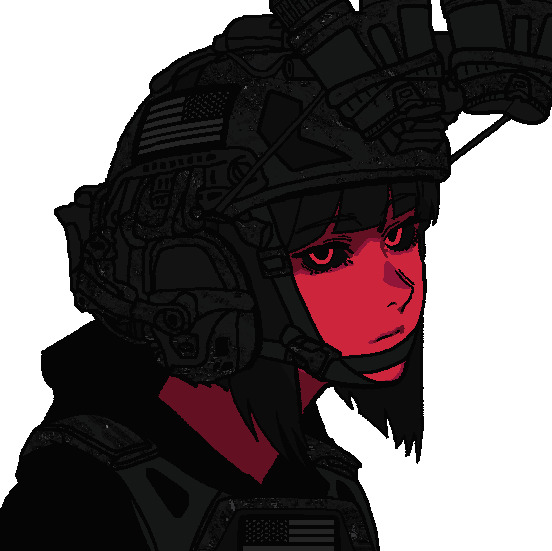
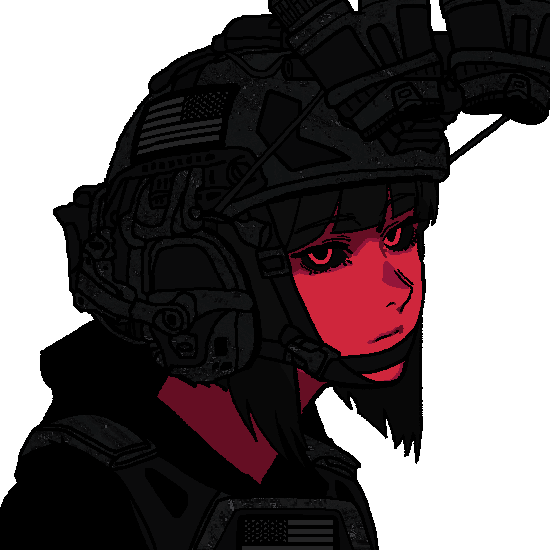
grey -> black

diff --git a/css/app.min.css b/css/app.min.css
@@ -1,1 +1,1 @@
-body,html{margin:0;padding:0;overflow:hidden;-webkit-touch-callout:none;-webkit-user-select:none;-khtml-user-select:none;-moz-user-select:none;-ms-user-select:none;user-select:none}h1,h2,h3,h4,h5{margin:0;padding:0}body{display:flex;flex-direction:column;align-items:center;justify-content:center;width:100%;height:100%;background:#0e0e10}main{display:flex;flex-direction:column;align-items:center;justify-content:center}.header{display:flex;flex-direction:column;align-items:center;justify-content:center;width:100%;margin-bottom:2em}.avatar{width:20em;height:auto;border-radius:50%;padding:1.6em;background-color:#050505}.brand-icon{margin-top:-1em;padding:1em;border-radius:15px;background:#050505}.logo{width:10em;height:auto;fill:#fff;margin:auto}.logo-condensed{display:none;width:5em;height:auto;fill:#fff;margin:auto}.links{display:flex;flex-direction:row;align-items:center;justify-content:center;width:100%}.link{position:relative;display:flex;flex-direction:column;align-items:center;justify-content:center;text-decoration:none;margin:0 1em}.icon{width:1.6em;height:1.6em;fill:#050505;margin:auto;-webkit-transition:fill .3s cubic-bezier(.25,.1,.25,1);transition:fill .3s cubic-bezier(.25,.1,.25,1)}.link:active .icon,.link:hover .icon{fill:#fff}.link{fill:#888;background:#050505;padding:.6em;border-radius:10px}.twitch .icon{fill:#8540e5}.youtube .icon{fill:#cc2936}.discord .icon{fill:#5562f2}.twitter .icon{fill:#178fe5}.instagram .icon{fill:#d62976}@media only screen and (orientation:portrait){main{transform:scale(80%)}}
+body,html{margin:0;padding:0;overflow:hidden;-webkit-touch-callout:none;-webkit-user-select:none;-khtml-user-select:none;-moz-user-select:none;-ms-user-select:none;user-select:none}h1,h2,h3,h4,h5{margin:0;padding:0}body{display:flex;flex-direction:column;align-items:center;justify-content:center;width:100%;height:100%;background:#0e0e10}main{display:flex;flex-direction:column;align-items:center;justify-content:center}.header{display:flex;flex-direction:column;align-items:center;justify-content:center;width:100%;margin-bottom:2em}.avatar{width:20em;height:auto;border-radius:50%;padding:1.6em;background-color:#000}.brand-icon{margin-top:-1em;padding:1em;border-radius:15px;background:#000}.logo{width:10em;height:auto;fill:#fff;margin:auto}.logo-condensed{display:none;width:5em;height:auto;fill:#fff;margin:auto}.links{display:flex;flex-direction:row;align-items:center;justify-content:center;width:100%}.link{position:relative;display:flex;flex-direction:column;align-items:center;justify-content:center;text-decoration:none;margin:0 1em}.icon{width:1.6em;height:1.6em;fill:#000;margin:auto;-webkit-transition:fill .3s cubic-bezier(.25,.1,.25,1);transition:fill .3s cubic-bezier(.25,.1,.25,1)}.link:active .icon,.link:hover .icon{fill:#fff}.link{fill:#888;background:#000;padding:.6em;border-radius:10px}.twitch .icon{fill:#8540e5}.youtube .icon{fill:#cc2936}.discord .icon{fill:#5562f2}.twitter .icon{fill:#178fe5}.instagram .icon{fill:#d62976}@media only screen and (orientation:portrait){main{transform:scale(80%)}}

diff --git a/css/app.css b/css/app.css
@@ -47,14 +47,14 @@ main {
     height: auto;
     border-radius: 50%;
     padding: 1.6em;
-    background-color: #050505;
+    background-color: #000;
 }
 
 .brand-icon {
     margin-top: -1em;
     padding: 1em;
     border-radius: 15px;
-    background: #050505;
+    background: #000;
 }
 
 .logo {
@@ -93,7 +93,7 @@ main {
 .icon {
     width: 1.6em;
     height: 1.6em;
-    fill: #050505;
+    fill: #000;
     margin: auto;
 
     -webkit-transition: fill 0.3s cubic-bezier(0.25, 0.1, 0.25, 1);
@@ -106,7 +106,7 @@ main {
 
 .link {
     fill: #888;
-    background: #050505;
+    background: #000;
     padding: 0.6em;
     border-radius: 10px;
 }
